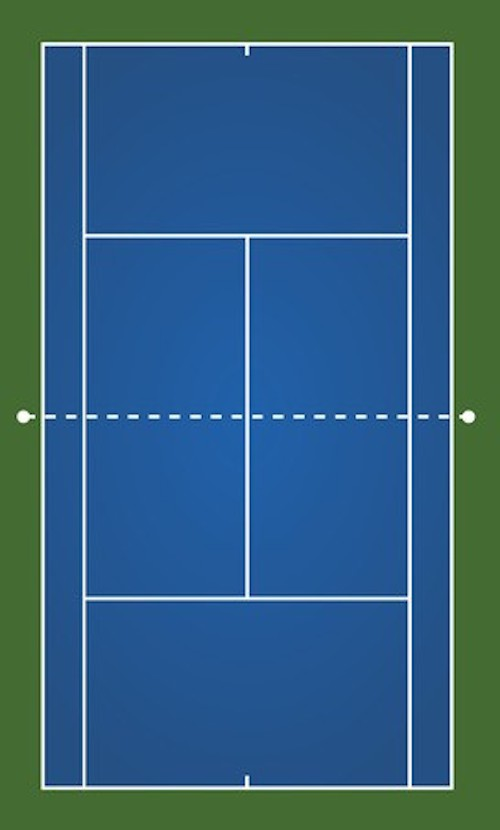
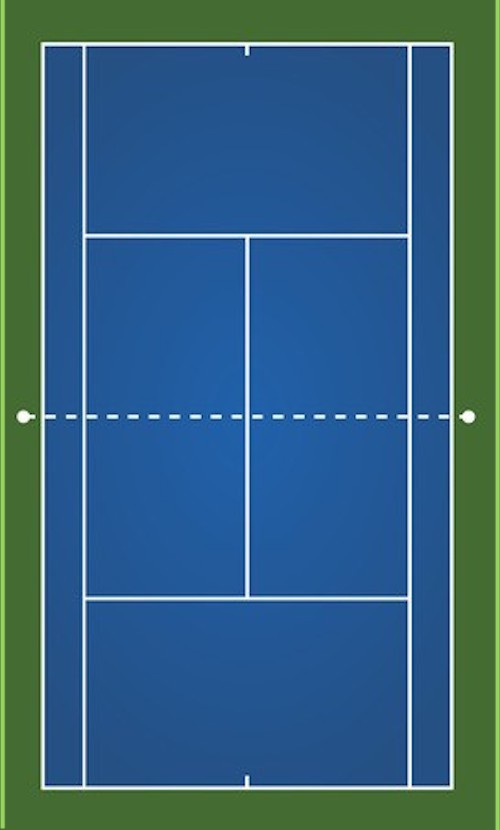
Updates

Changed region(s): [[0.99, 0.0, 1.0, 1.0], [0.0, 0.0, 0.03, 1.0]]

diff --git a/index.js b/index.js
@@ -1,1 +1,1 @@
-!function(e){var t={};function a(s){if(t[s])return t[s].exports;var i=t[s]={i:s,l:!1,exports:{}};return e[s].call(i.exports,i,i.exports,a),i.l=!0,i.exports}a.m=e,a.c=t,a.d=function(e,t,s){a.o(e,t)||Object.defineProperty(e,t,{enumerable:!0,get:s})},a.r=function(e){"undefined"!=typeof Symbol&&Symbol.toStringTag&&Object.defineProperty(e,Symbol.toStringTag,{value:"Module"}),Object.defineProperty(e,"__esModule",{value:!0})},a.t=function(e,t){if(1&t&&(e=a(e)),8&t)return e;if(4&t&&"object"==typeof e&&e&&e.__esModule)return e;var s=Object.create(null);if(a.r(s),Object.defineProperty(s,"default",{enumerable:!0,value:e}),2&t&&"string"!=typeof e)for(var i in e)a.d(s,i,function(t){return e[t]}.bind(null,i));return s},a.n=function(e){var t=e&&e.__esModule?function(){return e.default}:function(){return e};return a.d(t,"a",t),t},a.o=function(e,t){return Object.prototype.hasOwnProperty.call(e,t)},a.p="",a(a.s=0)}([function(e,t,a){"use strict";a.r(t);const s=new Phaser.Game({height:830,width:500,renderer:Phaser.CANVAS,scaleMode:Phaser.ScaleManager.SHOW_ALL,parent:"container",alignH:!0,alignV:!0});s.state.add("welcome",class{preload(){this.game.load.image("Court","./assets/background2.jpg"),this.load.spritesheet("singlePlayerButton","./assets/button_einzelspieler.png",166,40),this.load.spritesheet("multiPlayerButton","./assets/button_mehrspieler.png",162,40),this.load.spritesheet("control","./assets/button_steuerung.png",142,40)}create(){this.add.image(0,0,"Court"),this.add.button(this.world.centerX-90,480,"singlePlayerButton",this.startSinglePlayer,this,2,1,0),this.add.button(this.world.centerX-88,550,"multiPlayerButton",this.startMultiPlayer,this,2,1,0),this.add.button(this.game.world.centerX-77,this.game.world.centerY+240,"control",this.showControls,this,2,1,0),this.game.add.text(this.world.centerX-220,this.game.world.height-670,"Willkommen zu\n       PONG",{font:"64px Arial",fill:"#EC0909",algin:"center"})}update(){}startSinglePlayer(){localStorage.setItem("pongMultiplayer",0),this.state.start("game")}startMultiPlayer(){localStorage.setItem("pongMultiplayer",1),this.state.start("game")}showControls(){this.state.start("controls")}}),s.state.add("game",class{preload(){this.game.load.image("paddle","./assets/paddle.png"),this.game.load.image("tennisball","./assets/tennisball.png"),this.game.load.image("Court","./assets/background2.jpg"),this.game.load.spritesheet("startButton","./assets/play-button.png")}createPlayer(e,t){const a=this.game.add.sprite(e,t,"paddle");return a.anchor.setTo(.5,.5),this.game.physics.arcade.enable(a),a.body.collideWorldBounds=!0,a.body.immovable=!0,a.scale.setTo(.4,.4),a}createBall(e,t){const a=this.game.add.sprite(e,t,"tennisball");return a.anchor.setTo(.5,.5),this.game.physics.arcade.enable(a),a.body.collideWorldBounds=!0,a.body.bounce.setTo(1,1),a.scale.setTo(.2,.2),a}launchBall(){this.ballLaunched?(this.ball.x=this.game.world.centerX,this.ball.y=this.game.world.centerY,this.ball.body.velocity.setTo(0,0),this.ball_launched=!1):(this.ball.body.velocity.x=-this.ballVelocity,this.ball.body.velocity.y=this.ballVelocity,this.ballLaunched=!0,this.playButton.pendingDestroy=!0)}create(){this.add.image(0,0,"Court"),this.multiplayer=parseInt(localStorage.getItem("pongMultiplayer")),this.ballLaunched=!1,this.ballVelocity=400,this.player1=this.createPlayer(this.game.world.centerX,0),this.player2=this.createPlayer(this.game.world.centerX,this.game.world.height),this.ball=this.createBall(this.game.world.centerX,this.game.world.centerY),this.playButton=this.add.button(this.world.centerX-40,this.world.centerY-40,"startButton",this.launchBall,this,2,1,0),this.player1Controls={left:this.game.input.keyboard.addKey(Phaser.Keyboard.A),right:this.game.input.keyboard.addKey(Phaser.Keyboard.D)},this.player2Controls={left:this.game.input.keyboard.addKey(Phaser.Keyboard.LEFT),right:this.game.input.keyboard.addKey(Phaser.Keyboard.RIGHT)},this.player1ScoreText=this.game.add.text(35,275,"0",{font:"64px Arial",fill:"#EC0909",algin:"center"}),this.player2ScoreText=this.game.add.text(35,this.game.world.height-390,"0",{font:"64px Arial",fill:"#EC0909",algin:"center"}),this.player2ScoreText.scale.setTo(1.5,1.5),this.player1ScoreText.scale.setTo(1.5,1.5),this.scorePlayer1=0,this.scorePlayer2=0}isTouchInputActive(){return this.game.input.mousePointer.isDown?this.game.input.mousePointer:!!this.game.input.pointer1.isDown&&this.game.input.pointer1}movePlayerByTouch(){const e=!this.multiplayer||this.game.input.y<this.game.world.centerY?this.player1:this.player2;this.game.input.x<this.game.world.centerX?e.body.velocity.x=-500:e.body.velocity.x=500}movePlayerByKeyboard(e){const t=e===this.player1?this.player1Controls:this.player2Controls;t.left.isDown?e.body.velocity.x=-400:t.right.isDown?e.body.velocity.x=400:e.body.velocity.x=0}update(){this.ballLaunched&&(this.isTouchInputActive()?this.movePlayerByTouch():(this.movePlayerByKeyboard(this.player1),this.multiplayer&&this.movePlayerByKeyboard(this.player2))),this.game.physics.arcade.collide(this.player1,this.ball),this.game.physics.arcade.collide(this.player2,this.ball),this.ball.body.blocked.up?this.scorePlayer2+=1:this.ball.body.blocked.down&&(this.scorePlayer1+=1),this.checkGameOver(),this.multiplayer||(this.player2.body.velocity.setTo(this.ball.body.velocity.x),this.player2.body.velocity.y=0,this.player2.body.maxVelocity.x=250),this.player1ScoreText.text=this.scorePlayer1,this.player2ScoreText.text=this.scorePlayer2}checkGameOver(){6===this.scorePlayer1&&(localStorage.setItem("winner","Spieler 1"),this.game.state.start("gameover")),6===this.scorePlayer2&&(localStorage.setItem("winner","Spieler 2"),this.game.state.start("gameover"))}}),s.state.add("gameover",class{preload(){this.game.load.image("Court","./assets/background2.jpg"),this.load.spritesheet("returnToHome","./assets/button_hauptmenu.png",157,40),this.load.spritesheet("playAgain","./assets/button_neues-spiel.png",154,40)}create(){this.add.image(0,0,"Court"),this.add.button(this.world.centerX-80,550,"returnToHome",this.returnToHome,this,2,1,0),this.add.button(this.world.centerX-80,460,"playAgain",this.playsameAgain,this,2,1,0);const e=localStorage.getItem("winner");this.game.add.text(31,150,`     ${e} \n hat gewonnen`,{font:"64px Arial",fill:"#EC0909",algin:"center"})}update(){}returnToHome(){this.state.start("welcome")}playsameAgain(){this.state.start("game")}}),s.state.add("controls",class{preload(){this.game.load.image("BG","./assets/background2.jpg"),this.load.spritesheet("back","./assets/button_zuruck.png",108,40),this.game.load.image("phone","./assets/phone.png"),this.game.load.image("Roger","./assets/roger3.png"),this.game.load.image("Finger","./assets/finger2.png")}create(){this.add.image(0,0,"BG"),this.add.image(this.world.centerX-320,250,"Roger"),this.add.image(10,250,"phone");const e=this.add.image(80,450,"Finger");this.add.button(this.world.centerX-150,660,"back",this.goBack,this,2,1,0),this.game.add.text(this.world.centerX-170,this.world.height-730,"Tippe oder benutze A/D\n   und die Pfeiltasten",{font:"64px Arial",fill:"#EC0909",algin:"center"}).scale.setTo(.5,.5),e.scale.setTo(.4,.4)}update(){}goBack(){this.state.start("welcome")}}),s.state.start("welcome")}]);
+!function(e){var t={};function a(s){if(t[s])return t[s].exports;var i=t[s]={i:s,l:!1,exports:{}};return e[s].call(i.exports,i,i.exports,a),i.l=!0,i.exports}a.m=e,a.c=t,a.d=function(e,t,s){a.o(e,t)||Object.defineProperty(e,t,{enumerable:!0,get:s})},a.r=function(e){"undefined"!=typeof Symbol&&Symbol.toStringTag&&Object.defineProperty(e,Symbol.toStringTag,{value:"Module"}),Object.defineProperty(e,"__esModule",{value:!0})},a.t=function(e,t){if(1&t&&(e=a(e)),8&t)return e;if(4&t&&"object"==typeof e&&e&&e.__esModule)return e;var s=Object.create(null);if(a.r(s),Object.defineProperty(s,"default",{enumerable:!0,value:e}),2&t&&"string"!=typeof e)for(var i in e)a.d(s,i,function(t){return e[t]}.bind(null,i));return s},a.n=function(e){var t=e&&e.__esModule?function(){return e.default}:function(){return e};return a.d(t,"a",t),t},a.o=function(e,t){return Object.prototype.hasOwnProperty.call(e,t)},a.p="",a(a.s=0)}([function(e,t,a){"use strict";a.r(t);const s=new Phaser.Game({height:830,width:500,renderer:Phaser.CANVAS,scaleMode:Phaser.ScaleManager.SHOW_ALL,parent:"container",alignH:!0,alignV:!0});s.state.add("welcome",class{preload(){this.game.load.image("Court","./assets/background2.jpg"),this.load.spritesheet("singlePlayerButton","./assets/button_einzelspieler.png",166,40),this.load.spritesheet("multiPlayerButton","./assets/button_mehrspieler.png",162,40),this.load.spritesheet("control","./assets/button_steuerung.png",142,40)}create(){this.add.image(0,0,"Court"),this.add.button(this.world.centerX-90,480,"singlePlayerButton",this.startSinglePlayer,this,2,1,0),this.add.button(this.world.centerX-88,550,"multiPlayerButton",this.startMultiPlayer,this,2,1,0),this.add.button(this.game.world.centerX-77,this.game.world.centerY+240,"control",this.showControls,this,2,1,0),this.game.add.text(this.world.centerX-95,130,"PONG",{font:"64px Arial",fill:"#fff",algin:"center"})}update(){}startSinglePlayer(){localStorage.setItem("pongMultiplayer",0),this.state.start("game")}startMultiPlayer(){localStorage.setItem("pongMultiplayer",1),this.state.start("game")}showControls(){this.state.start("controls")}}),s.state.add("game",class{preload(){this.game.load.image("paddle","./assets/paddle.png"),this.game.load.image("tennisball","./assets/tennisball.png"),this.game.load.image("Court","./assets/background2.jpg"),this.game.load.spritesheet("startButton","./assets/play-button.png")}createPlayer(e,t){const a=this.game.add.sprite(e,t,"paddle");return a.anchor.setTo(.5,.5),this.game.physics.arcade.enable(a),a.body.collideWorldBounds=!0,a.body.immovable=!0,a.scale.setTo(.4,.4),a}createBall(e,t){const a=this.game.add.sprite(e,t,"tennisball");return a.anchor.setTo(.5,.5),this.game.physics.arcade.enable(a),a.body.collideWorldBounds=!0,a.body.bounce.setTo(1,1),a.scale.setTo(.2,.2),a}launchBall(){this.ballLaunched?(this.ball.x=this.game.world.centerX,this.ball.y=this.game.world.centerY,this.ball.body.velocity.setTo(0,0),this.ball_launched=!1):(this.ball.body.velocity.x=-this.ballVelocity,this.ball.body.velocity.y=this.ballVelocity,this.ballLaunched=!0,this.playButton.pendingDestroy=!0)}create(){this.add.image(0,0,"Court"),this.multiplayer=parseInt(localStorage.getItem("pongMultiplayer")),this.ballLaunched=!1,this.ballVelocity=400,this.player1=this.createPlayer(this.game.world.centerX,0),this.player2=this.createPlayer(this.game.world.centerX,this.game.world.height),this.ball=this.createBall(this.game.world.centerX,this.game.world.centerY),this.playButton=this.add.button(this.world.centerX-40,this.world.centerY-40,"startButton",this.launchBall,this,2,1,0),this.player1Controls={left:this.game.input.keyboard.addKey(Phaser.Keyboard.A),right:this.game.input.keyboard.addKey(Phaser.Keyboard.D)},this.player2Controls={left:this.game.input.keyboard.addKey(Phaser.Keyboard.LEFT),right:this.game.input.keyboard.addKey(Phaser.Keyboard.RIGHT)},this.player1ScoreText=this.game.add.text(35,275,"0",{font:"64px Arial",fill:"#EC0909",algin:"center"}),this.player2ScoreText=this.game.add.text(35,this.game.world.height-390,"0",{font:"64px Arial",fill:"#EC0909",algin:"center"}),this.player2ScoreText.scale.setTo(1.5,1.5),this.player1ScoreText.scale.setTo(1.5,1.5),this.scorePlayer1=0,this.scorePlayer2=0}isTouchInputActive(){return this.game.input.mousePointer.isDown?this.game.input.mousePointer:!!this.game.input.pointer1.isDown&&this.game.input.pointer1}movePlayerByTouch(){const e=!this.multiplayer||this.game.input.y<this.game.world.centerY?this.player1:this.player2;this.game.input.x<this.game.world.centerX?e.body.velocity.x=-500:e.body.velocity.x=500}movePlayerByKeyboard(e){const t=e===this.player1?this.player1Controls:this.player2Controls;t.left.isDown?e.body.velocity.x=-400:t.right.isDown?e.body.velocity.x=400:e.body.velocity.x=0}update(){this.ballLaunched&&(this.isTouchInputActive()?this.movePlayerByTouch():(this.movePlayerByKeyboard(this.player1),this.multiplayer&&this.movePlayerByKeyboard(this.player2))),this.game.physics.arcade.collide(this.player1,this.ball),this.game.physics.arcade.collide(this.player2,this.ball),this.ball.body.blocked.up?this.scorePlayer2+=1:this.ball.body.blocked.down&&(this.scorePlayer1+=1),this.checkGameOver(),this.multiplayer||(this.player2.body.velocity.setTo(this.ball.body.velocity.x),this.player2.body.velocity.y=0,this.player2.body.maxVelocity.x=250),this.player1ScoreText.text=this.scorePlayer1,this.player2ScoreText.text=this.scorePlayer2}checkGameOver(){6===this.scorePlayer1&&(localStorage.setItem("winner","Spieler 1"),this.game.state.start("gameover")),6===this.scorePlayer2&&(localStorage.setItem("winner","Spieler 2"),this.game.state.start("gameover"))}}),s.state.add("gameover",class{preload(){this.game.load.image("Court","./assets/background2.jpg"),this.load.spritesheet("returnToHome","./assets/button_hauptmenu.png",157,40),this.load.spritesheet("playAgain","./assets/button_neues-spiel.png",154,40)}create(){this.add.image(0,0,"Court"),this.add.button(this.world.centerX-80,550,"returnToHome",this.returnToHome,this,2,1,0),this.add.button(this.world.centerX-80,460,"playAgain",this.playsameAgain,this,2,1,0);const e=localStorage.getItem("winner");this.game.add.text(80,90,`     ${e} \n hat gewonnen`,{font:"48px Arial",fill:"#fff",algin:"center"})}update(){}returnToHome(){this.state.start("welcome")}playsameAgain(){this.state.start("game")}}),s.state.add("controls",class{preload(){this.game.load.image("BG","./assets/background2.jpg"),this.load.spritesheet("back","./assets/button_zuruck.png",108,40),this.game.load.image("phone","./assets/phone.png"),this.game.load.image("Roger","./assets/roger3.png"),this.game.load.image("Finger","./assets/finger2.png")}create(){this.add.image(0,0,"BG"),this.add.image(this.world.centerX-320,250,"Roger"),this.add.image(10,250,"phone");const e=this.add.image(80,450,"Finger");this.add.button(this.world.centerX-150,660,"back",this.goBack,this,2,1,0),this.game.add.text(this.world.centerX-170,this.world.height-730,"  Spieler 1: A und S\n  Spieler 2: Pfeiltasten\n  oder Touch-Eingabe",{font:"64px Arial",fill:"#ffffff",algin:"center"}).scale.setTo(.5,.5),e.scale.setTo(.4,.4)}update(){}goBack(){this.state.start("welcome")}}),s.state.start("welcome")}]);

diff --git a/index.html b/index.html
@@ -12,7 +12,7 @@
     body {
       margin: 0;
       padding: 0;
-      background: #111;
+      background: #446b32;
     }
 
     #container {
